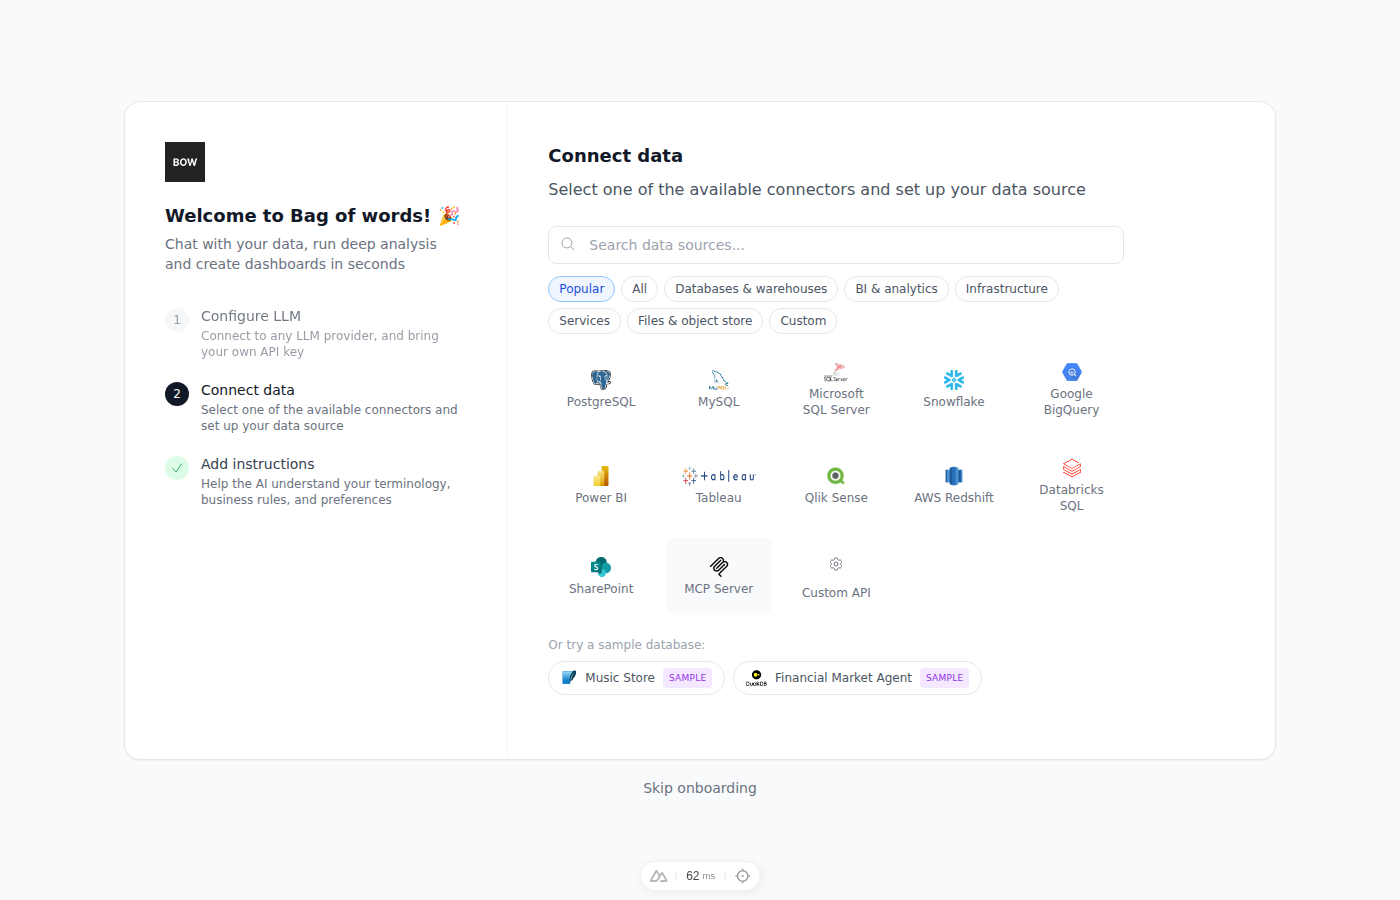
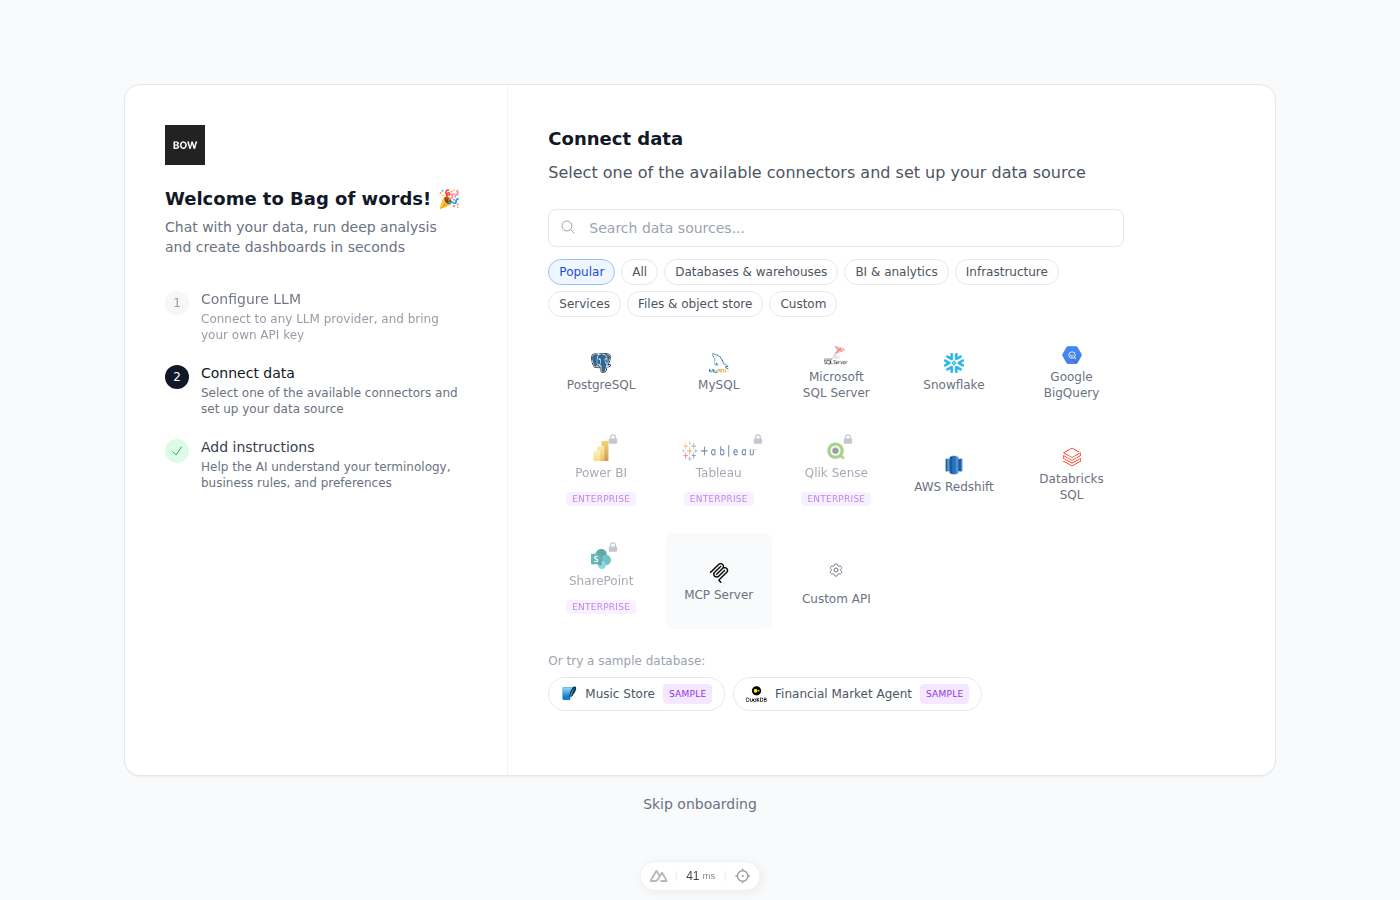
Add unlicensed before/after evidence for connector license gate
Claude-Session: https://claude.ai/code/session_01AA3gGyekKjj4KDovfdPFdj

diff --git a/docs/feedback-loops/connector-license-gate-drift.md b/docs/feedback-loops/connector-license-gate-drift.md
@@ -86,14 +86,33 @@ After the fix:
 3 passed, 20 deselected
 ```
 
-## Loop B — live UI confirmation
+## Loop B — live stack confirmation
 
-Stack: `tools/agent/boot_stack.sh --dev`, then `tools/agent/seed_org.py`, with
-no license configured. Screenshots of the Add Connection modal, before and
-after: `media/pr/free-connectors-license-gate/`. The frontend is unchanged.
-Before, the six connectors show the enterprise lock. After, they are
-selectable, and the remaining enterprise connectors (Power BI, Tableau,
-SharePoint, …) are still locked.
+Boot with `tools/agent/boot_stack.sh --dev`, then run `tools/agent/seed_org.py`.
+**Gotcha:** the sandbox exports an enterprise `BOW_LICENSE_KEY`, which
+`configs/bow-config.dev.yaml` reads, so nothing ever looks locked. Restart the
+backend with `BOW_LICENSE_KEY=""` and check that `GET /api/license` reports
+`"licensed": false`.
+
+Unlicensed, `POST /api/connections` with an empty config:
+
+```
+kubernetes             400   # passed the license check, failed config validation
+splunk                 400
+onedrive               400
+google_drive           200
+outlook_mail           400
+gmail_mail             200
+sharepoint             402   # still enterprise
+powerbi_report_server  402   # previously drifted: was 400, now enforced
+tableau                402
+```
+
+Screenshots of the onboarding connector picker (`/onboarding/data`), before
+and after, are in `media/pr/free-connectors-license-gate/`. The frontend is
+unchanged and only reads `requires_license`. Before, Kubernetes, Splunk,
+OneDrive, Google Drive, Outlook Mail and Gmail show the locked ENTERPRISE
+badge. After, they are open, and SharePoint is still locked.
 
 ## What this proves / regression notes
 
